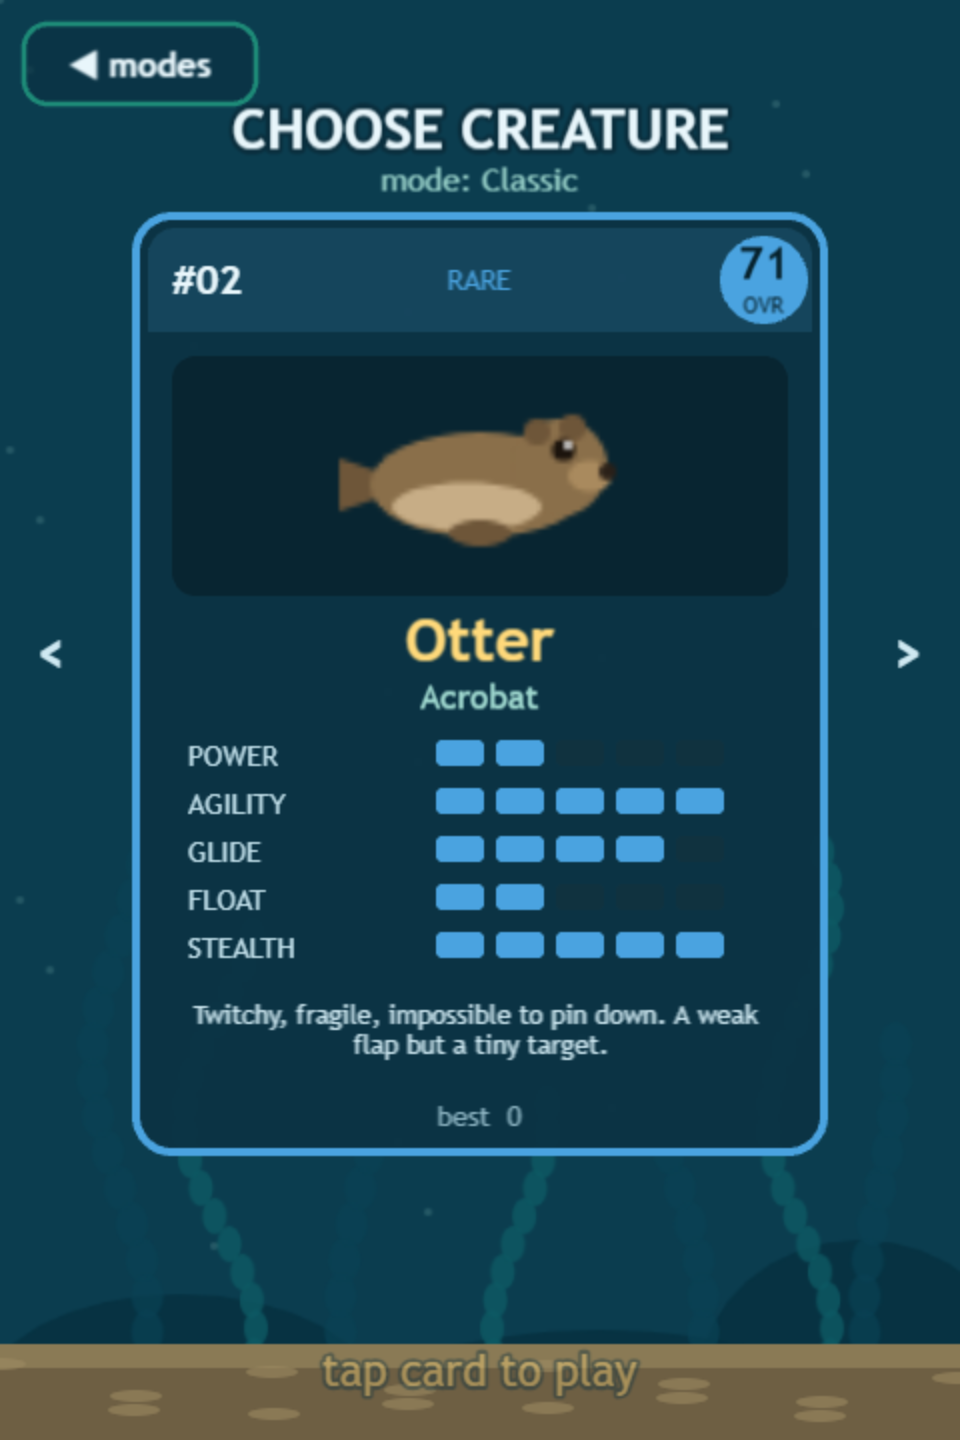
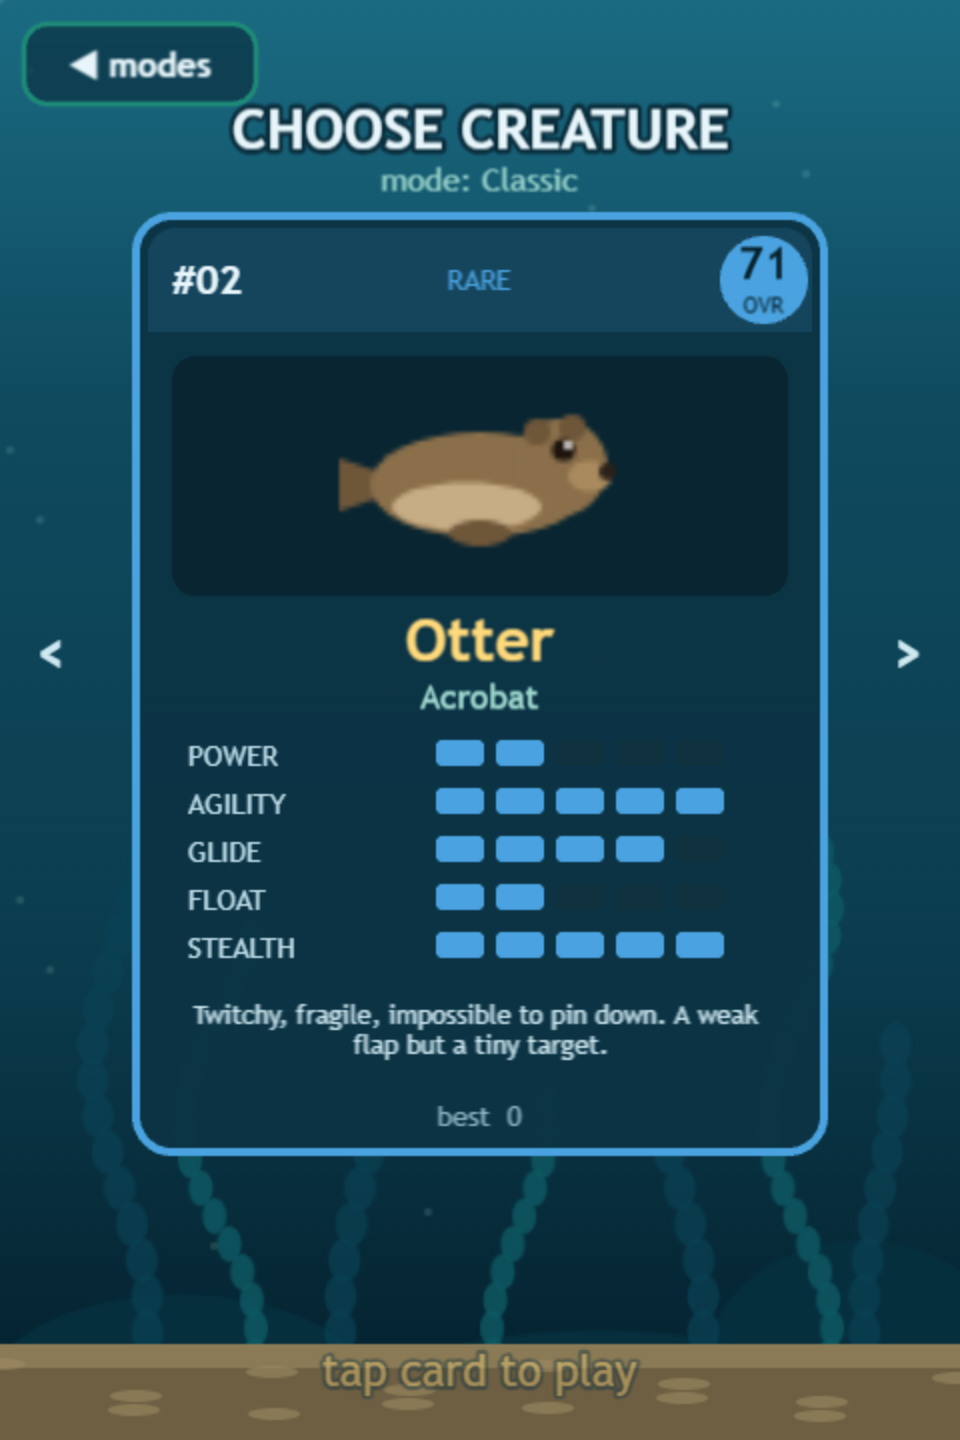
Graphics increment 1 (finale): depth-gradient water, reef variants, postFX, death burst
A1 vertical depth gradient + broken surface shimmer (all scenes coherent);
A2 three reef palettes with barnacle texture, swapped per gate recycle;
A3 WebGL postFX vignette (static-texture fallback on canvas, fx-tiered);
A4 death bubble burst + slow spin through the DEAD drift (motion-gated);
A5 drifting plankton motes; A7 per-mode water grading (Dive cool, PD warm).
docs/FINALE.md battle plan. 98 unit/sim + e2e green; screenshots regenerated.

Changed region(s): [[0.0, 0.0, 1.0, 0.2188], [0.0, 0.875, 0.7188, 0.9375], [0.75, 0.875, 0.7812, 0.9062]]

diff --git a/src/scenes/GameScene.ts b/src/scenes/GameScene.ts
@@ -83,12 +83,42 @@ export class GameScene extends Phaser.Scene {
     );
     this.registry.set('score', 0);
 
+    // A1+A7: depth-gradient water, graded per mode (Dive cooler, PD warmer).
+    const MODE_TINT: Record<string, number> = { classic: 0xffffff, dive: 0xa8cce0, powerdive: 0xe8cdaa };
+    this.add
+      .image(D.worldWidth / 2, D.worldHeight / 2, 'bgGradient')
+      .setDepth(0)
+      .setTint(MODE_TINT[mode.id] ?? 0xffffff);
     this.bgFar = this.add.tileSprite(D.worldWidth / 2, D.worldHeight / 2, D.worldWidth, D.worldHeight, 'bgFar').setDepth(1);
     this.bgMid = this.add.tileSprite(D.worldWidth / 2, D.worldHeight / 2, D.worldWidth, D.worldHeight, 'bgMid').setDepth(2);
 
+    // A5: slow plankton motes drifting past (ambient depth).
+    this.add
+      .particles(0, 0, 'dot', {
+        x: { min: 0, max: D.worldWidth },
+        y: { min: 30, max: D.worldHeight - 60 },
+        speedX: { min: -22, max: -8 },
+        speedY: { min: -4, max: 4 },
+        scale: { min: 0.12, max: 0.4 },
+        alpha: { start: 0.22, end: 0 },
+        lifespan: 9000,
+        frequency: this.calmMotion ? 1400 : 650,
+      })
+      .setDepth(3);
+
+    // A1: broken light shimmer at the water surface.
+    const shimmer = this.add
+      .image(D.worldWidth / 2, 12, 'shimmer')
+      .setDepth(8)
+      .setBlendMode(Phaser.BlendModes.ADD)
+      .setAlpha(0.5);
+    if (!this.calmMotion) {
+      this.tweens.add({ targets: shimmer, alpha: 0.25, duration: 1700, yoyo: true, repeat: -1, ease: 'Sine.easeInOut' });
+    }
+
     this.gateViews = this.sim.gates().map(() => ({
-      top: this.add.image(0, 0, 'reef').setOrigin(0.5, 1).setFlipY(true).setDepth(5),
-      bottom: this.add.image(0, 0, 'reef').setOrigin(0.5, 0).setDepth(5),
+      top: this.add.image(0, 0, 'reef0').setOrigin(0.5, 1).setFlipY(true).setDepth(5),
+      bottom: this.add.image(0, 0, 'reef0').setOrigin(0.5, 0).setDepth(5),
     }));
 
     this.add.image(D.worldWidth / 2, D.worldHeight - 24, 'sand').setDepth(6);
@@ -167,6 +197,13 @@ export class GameScene extends Phaser.Scene {
   /** Caustic light shafts + vignette; cheap, and removed if FPS dips (§8). */
   private addEffects(): void {
     if (this.registry.get('fxLow') === true) return;
+
+    // A3: real postFX vignette on WebGL (replaces the static texture there);
+    // canvas renderer keeps the texture fallback below.
+    const webgl = this.game.renderer.type === Phaser.WEBGL;
+    if (webgl) {
+      this.cameras.main.postFX.addVignette(0.5, 0.5, 0.92, 0.38);
+    }
     for (const [x, sway, dur] of [
       [120, 26, 5200],
       [280, -34, 6800],
@@ -194,7 +231,9 @@ export class GameScene extends Phaser.Scene {
       }
       this.fx.push(ray);
     }
-    this.fx.push(this.add.image(D.worldWidth / 2, D.worldHeight / 2, 'vignette').setDepth(30));
+    if (!webgl) {
+      this.fx.push(this.add.image(D.worldWidth / 2, D.worldHeight / 2, 'vignette').setDepth(30));
+    }
   }
 
   private bindVisibilityPause(): void {
@@ -304,7 +343,12 @@ export class GameScene extends Phaser.Scene {
     this.layoutGates(alpha, speed);
 
     const r = this.sim.renderState(alpha);
-    this.player.update(r.x, r.y, r.vy, speed);
+    if (this.sim.phase === 'PLAY') {
+      this.player.update(r.x, r.y, r.vy, speed);
+    } else {
+      // DEAD drift: position only — the death-spin tween owns rotation (A4).
+      this.player.sprite.setPosition(r.x, r.y);
+    }
   }
 
   private layoutGates(alpha = 1, speed = 0): void {
@@ -312,6 +356,13 @@ export class GameScene extends Phaser.Scene {
     this.sim.gates().forEach((g, i) => {
       const view = this.gateViews[i];
       if (!view) return;
+      // A2: reef palette varies per recycle (keyed off the gap center, which
+      // only changes when a gate regenerates — cheap texture swap).
+      const variant = `reef${Math.abs(Math.floor(g.gapCenterY * 7)) % 3}`;
+      if (view.top.texture.key !== variant) {
+        view.top.setTexture(variant);
+        view.bottom.setTexture(variant);
+      }
       const x = g.x - back;
       view.top.setPosition(x, g.gapCenterY - g.gapSize / 2);
       view.bottom.setPosition(x, g.gapCenterY + g.gapSize / 2);
@@ -321,10 +372,18 @@ export class GameScene extends Phaser.Scene {
   private onDeath(): void {
     this.registry.set('appState', transition('PLAY', 'DEAD'));
     this.sfx.death();
-    // F-5: no camera shake/flash under prefers-reduced-motion.
+    // A4: bubble burst at the point of impact + a slow spin through the
+    // death drift (burst for everyone; spin skipped under reduced motion).
+    this.bubbles.emitParticleAt(this.player.sprite.x, this.player.sprite.y, 16);
     if (!this.calmMotion) {
       this.cameras.main.shake(180, 0.012);
       this.cameras.main.flash(120, 200, 60, 60);
+      this.tweens.add({
+        targets: this.player.sprite,
+        angle: this.player.sprite.angle + 150,
+        duration: 900,
+        ease: 'Cubic.easeOut',
+      });
     }
 
     const best = this.registry.get('best') as number;

diff --git a/src/scenes/BootScene.ts b/src/scenes/BootScene.ts
@@ -27,6 +27,7 @@ export class BootScene extends Phaser.Scene {
     this.makeBackgrounds();
     this.makeDot();
     this.makeLightAndVignette();
+    this.makeDepthAndShimmer();
 
     const store = new LocalStorageStore();
     this.registry.set('store', store);
@@ -211,33 +212,40 @@ export class BootScene extends Phaser.Scene {
     g.destroy();
   }
 
+  /** Three reef palettes/coral layouts — swapped per gate recycle (A2). */
   private makeReefColumn(): void {
-    const g = this.add.graphics();
     const w = difficulty.pipeWidth;
-    // Column body
-    g.fillStyle(0x14695e);
-    g.fillRect(0, 0, w, H);
-    // Edge shading
-    g.fillStyle(0x0e4f47);
-    g.fillRect(0, 0, 7, H);
-    g.fillRect(w - 7, 0, 7, H);
-    // Texture striations
-    g.fillStyle(0x117063, 0.6);
-    for (let y = 60; y < H; y += 90) {
-      g.fillEllipse(w / 2, y, w - 18, 22);
-    }
-    // Cap (gap lip)
-    g.fillStyle(0x1d8a77);
-    g.fillRoundedRect(0, 0, w, 26, { tl: 8, tr: 8, bl: 0, br: 0 });
-    // Coral bumps on the lip
-    g.fillStyle(0xe8735a);
-    g.fillCircle(14, 7, 5);
-    g.fillStyle(0xf29a6b);
-    g.fillCircle(34, 5, 6);
-    g.fillStyle(0xd95f6a);
-    g.fillCircle(54, 7, 5);
-    g.generateTexture('reef', w, H);
-    g.destroy();
+    const VARIANTS = [
+      { body: 0x14695e, edge: 0x0e4f47, stria: 0x117063, cap: 0x1d8a77, corals: [[14, 7, 5, 0xe8735a], [34, 5, 6, 0xf29a6b], [54, 7, 5, 0xd95f6a]] },
+      { body: 0x11606a, edge: 0x0b4650, stria: 0x146d78, cap: 0x1a8c94, corals: [[12, 6, 4, 0xf2b06b], [30, 8, 5, 0xe8735a], [48, 5, 4, 0xf2d76b], [60, 8, 4, 0xd95f6a]] },
+      { body: 0x186653, edge: 0x104a3c, stria: 0x1d7a5e, cap: 0x27a077, corals: [[18, 6, 6, 0xd95f8a], [42, 7, 5, 0xf29a6b], [58, 5, 4, 0xe8735a]] },
+    ] as const;
+
+    VARIANTS.forEach((v, i) => {
+      const g = this.add.graphics();
+      g.fillStyle(v.body);
+      g.fillRect(0, 0, w, H);
+      g.fillStyle(v.edge);
+      g.fillRect(0, 0, 7, H);
+      g.fillRect(w - 7, 0, 7, H);
+      g.fillStyle(v.stria, 0.6);
+      for (let y = 60 + i * 24; y < H; y += 82 + i * 10) {
+        g.fillEllipse(w / 2, y, w - 18, 22);
+      }
+      // Barnacle specks for texture
+      g.fillStyle(0xffffff, 0.08);
+      for (let k = 0; k < 26; k++) {
+        g.fillCircle(9 + ((k * 37 + i * 13) % (w - 18)), (k * 53 + i * 29) % H, 2);
+      }
+      g.fillStyle(v.cap);
+      g.fillRoundedRect(0, 0, w, 26, { tl: 8, tr: 8, bl: 0, br: 0 });
+      for (const [cx, cy, r, col] of v.corals) {
+        g.fillStyle(col);
+        g.fillCircle(cx, cy, r);
+      }
+      g.generateTexture(`reef${i}`, w, H);
+      g.destroy();
+    });
   }
 
   private makeBubble(): void {
@@ -306,6 +314,40 @@ export class BootScene extends Phaser.Scene {
     }
     sand.generateTexture('sand', W, 48);
     sand.destroy();
+  }
+
+  /** A1: vertical depth gradient (bright surface → abyss) + surface shimmer. */
+  private makeDepthAndShimmer(): void {
+    const grad = this.textures.createCanvas('bgGradient', W, H);
+    if (grad) {
+      const ctx = grad.getContext();
+      const g = ctx.createLinearGradient(0, 0, 0, H);
+      g.addColorStop(0, '#1a6b82');
+      g.addColorStop(0.28, '#0f4a5f');
+      g.addColorStop(0.65, '#0b3d4f');
+      g.addColorStop(1, '#041e2a');
+      ctx.fillStyle = g;
+      ctx.fillRect(0, 0, W, H);
+      grad.refresh();
+    }
+
+    const shim = this.textures.createCanvas('shimmer', W, 30);
+    if (shim) {
+      const ctx = shim.getContext();
+      const g = ctx.createLinearGradient(0, 0, 0, 30);
+      g.addColorStop(0, 'rgba(214,242,255,0.55)');
+      g.addColorStop(0.5, 'rgba(160,220,240,0.18)');
+      g.addColorStop(1, 'rgba(160,220,240,0)');
+      ctx.fillStyle = g;
+      ctx.fillRect(0, 0, W, 30);
+      // Broken highlight streaks so it reads as light on water, not a bar.
+      ctx.globalCompositeOperation = 'destination-out';
+      for (let i = 0; i < 22; i++) {
+        ctx.fillStyle = 'rgba(0,0,0,0.5)';
+        ctx.fillRect((i * 43) % W, 0, 12 + ((i * 17) % 14), 8);
+      }
+      shim.refresh();
+    }
   }
 
   private makeLightAndVignette(): void {

diff --git a/src/scenes/SandboxScene.ts b/src/scenes/SandboxScene.ts
@@ -49,6 +49,7 @@ export class SandboxScene extends Phaser.Scene {
     this.accumulator = 0;
     this.simTime = 0;
 
+    this.add.image(W / 2, H / 2, 'bgGradient');
     this.add.tileSprite(W / 2, H / 2, W, H, 'bgFar');
     this.add.tileSprite(W / 2, H / 2, W, H, 'bgMid');
     this.add.image(W / 2, H - 24, 'sand');

diff --git a/src/scenes/CharacterSelectScene.ts b/src/scenes/CharacterSelectScene.ts
@@ -38,6 +38,7 @@ export class CharacterSelectScene extends Phaser.Scene {
   }
 
   create(): void {
+    this.add.image(W / 2, H / 2, 'bgGradient');
     this.add.tileSprite(W / 2, H / 2, W, H, 'bgFar');
     this.add.tileSprite(W / 2, H / 2, W, H, 'bgMid');
     this.add.image(W / 2, H - 24, 'sand');

diff --git a/src/scenes/ModeSelectScene.ts b/src/scenes/ModeSelectScene.ts
@@ -20,6 +20,7 @@ export class ModeSelectScene extends Phaser.Scene {
   }
 
   create(): void {
+    this.add.image(W / 2, H / 2, 'bgGradient');
     this.add.tileSprite(W / 2, H / 2, W, H, 'bgFar');
     this.add.tileSprite(W / 2, H / 2, W, H, 'bgMid');
     this.add.image(W / 2, H - 24, 'sand');

diff --git a/src/scenes/PaceSelectScene.ts b/src/scenes/PaceSelectScene.ts
@@ -27,6 +27,7 @@ export class PaceSelectScene extends Phaser.Scene {
   }
 
   create(): void {
+    this.add.image(W / 2, H / 2, 'bgGradient');
     this.add.tileSprite(W / 2, H / 2, W, H, 'bgFar');
     this.add.tileSprite(W / 2, H / 2, W, H, 'bgMid');
     this.add.image(W / 2, H - 24, 'sand');

diff --git a/src/scenes/MenuScene.ts b/src/scenes/MenuScene.ts
@@ -14,6 +14,7 @@ export class MenuScene extends Phaser.Scene {
   }
 
   create(): void {
+    this.add.image(W / 2, H / 2, 'bgGradient');
     this.add.tileSprite(W / 2, H / 2, W, H, 'bgFar');
     this.add.tileSprite(W / 2, H / 2, W, H, 'bgMid');
     this.add.image(W / 2, H - 24, 'sand');

diff --git a/docs/FINALE.md b/docs/FINALE.md
@@ -1,0 +1,40 @@
+# FINALE — the last-day-of-Fable battle plan
+**Branch:** `finale` (main stays stable & deployed; merge increments only when green) · **Window:** ~1 day
+**Rule of engagement:** graphics first (owner priority), everything ships behind the existing quality gates (suite green, golden untouched, fx/reduced-motion tiers respected). Owner picks & reorders freely — this is a menu, not a contract.
+
+## Tier A — GRAPHICS OVERHAUL (the priority)
+| # | Item | Payoff | Cost |
+|---|---|---|---|
+| A1 | **Depth-gradient water** (light near surface → abyssal below) + surface shimmer band | whole game instantly reads "ocean" | S |
+| A2 | **Reef variety**: 3 column palettes/coral layouts, swapped per gate recycle; swaying kelp sprites in midground | kills the repeated-pipe look | S |
+| A3 | **WebGL postFX**: camera vignette (replaces static texture), subtle glow on light shafts — tiered off on weak GPUs / reduced-motion | free "lighting pass" | S |
+| A4 | **Death burst** (bubble explosion + creature spin during slow-mo drift) + per-character trail colors | juice where it matters most | S |
+| A5 | **Plankton motes** — slow parallax drift specks | depth & life | S |
+| A6 | **Animated creatures**: 2–3 frame swim cycles + nose-down dive pose per creature (procedural frames) | biggest single visual upgrade | **L** |
+| A7 | **Mode water grading**: Classic neutral · Dive deeper/cooler · Power Dive warmer/current-lit | modes feel like places | S |
+| A8 | Menu title treatment (wave motion, bubbles rising through letters) + card portrait polish | first impression | M |
+
+## Tier B — SPRINT 2 CORE (the plan of record)
+| B1 | Feel-sim suite (§4.1 numeric targets: Otter tap-rate, Dive depth-hold, reversal fight) | M |
+| B2 | **Currents inside Power Dive** — drifting zones + Lab-style telegraph arrows, fairness re-swept | **L** |
+| B3 | Public Currents mode from graduated Lab presets | M |
+
+## Tier C — DETERMINISM FREEBIES (cheap because the sim is replayable)
+| C1 | **Replay ghost** — race a translucent recording of your best run (record tap frames, replay in parallel sim) | M |
+| C2 | **Daily seed** — same course for everyone each day, menu button | S |
+| C3 | Stats panel (per mode/creature/tempo bests in one screen) | S |
+
+## Tier D — DISTRIBUTION / PERF
+| D1 | GitBook connect (3-min owner click-through) | owner |
+| D2 | Android TWA package attempt (PWA → Play-ready .aab via Bubblewrap) | M |
+| D3 | Perf 61→85+: splash + deferred Phaser boot, prune unused engine modules | M |
+
+## Wildcard ideas (taking votes)
+Screenshot/share button (canvas snapshot + score card) · near-miss slow-mo flourish · colorblind-safe gate lips · Lab "photo mode" · seasonal palettes · creature-unlock celebration animation · CRT/retro filter toggle · background whale silhouette fly-by (rare event).
+
+## Suggested day plan (if owner just says "go")
+1. **A1+A2+A3+A4+A5+A7 now** (this increment) → screenshots → owner eyeball
+2. **A6 animated creatures** (the big one) → screenshots regen → merge to main = *visible new game*
+3. **B2 currents in Power Dive** (+B1 feel sims inside it)
+4. **C1 ghost or C2 daily seed** as the cherry
+5. Merge green increments to main continuously; final tag **v0.7.0** + Handoff v3 before Fable signs off.
